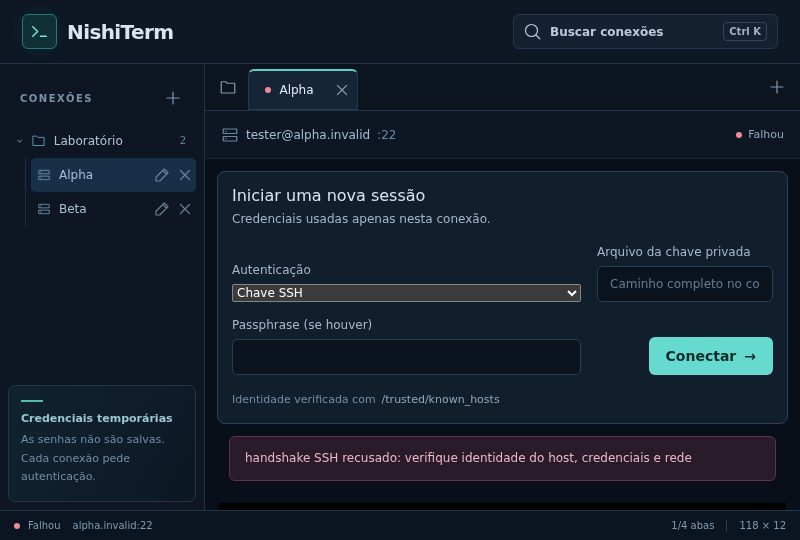
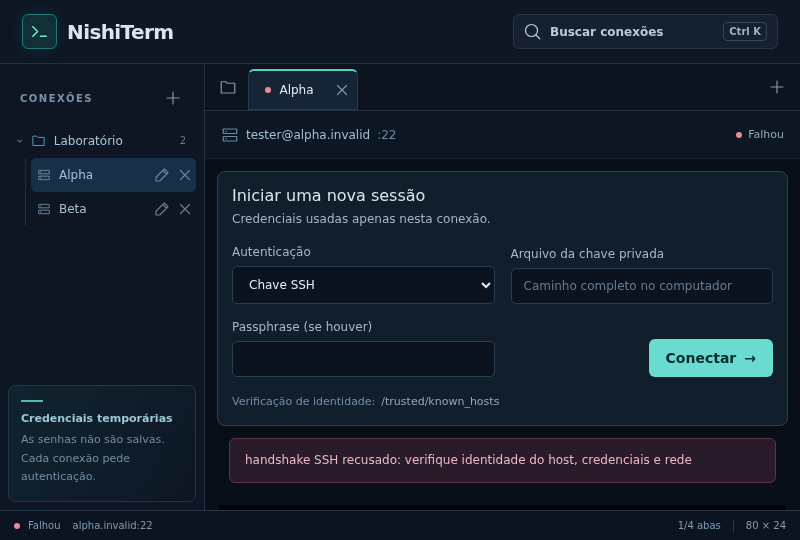
Polish key authentication layout and trust wording

diff --git a/frontend/src/style.css b/frontend/src/style.css
@@ -67,7 +67,8 @@ button.icon-button:hover {
   background: #213348;
   color: #e8f4ff;
 }
-input {
+input,
+select {
   width: 100%;
   min-width: 0;
   background: #0b131f;
@@ -80,6 +81,7 @@ input::placeholder {
   color: #647c93;
 }
 input:focus-visible,
+select:focus-visible,
 button:focus-visible,
 summary:focus-visible {
   outline: 2px solid #64d9cf;
@@ -741,7 +743,7 @@ dialog::backdrop {
   }
   .auth-card {
     margin: 16px;
-    grid-template-columns: 1fr auto;
+    grid-template-columns: repeat(2, minmax(0, 1fr));
   }
   .auth-card > div {
     grid-column: 1/-1;

diff --git a/frontend/src/main.tsx b/frontend/src/main.tsx
@@ -379,7 +379,7 @@ function SessionPane({
             Conectar <span aria-hidden="true">→</span>
           </button>
           <p className="trust-note">
-            Identidade verificada com{" "}
+            Verificação de identidade:{" "}
             <span title={tab.profile.knownHosts}>{tab.profile.knownHosts}</span>
           </p>
         </form>
